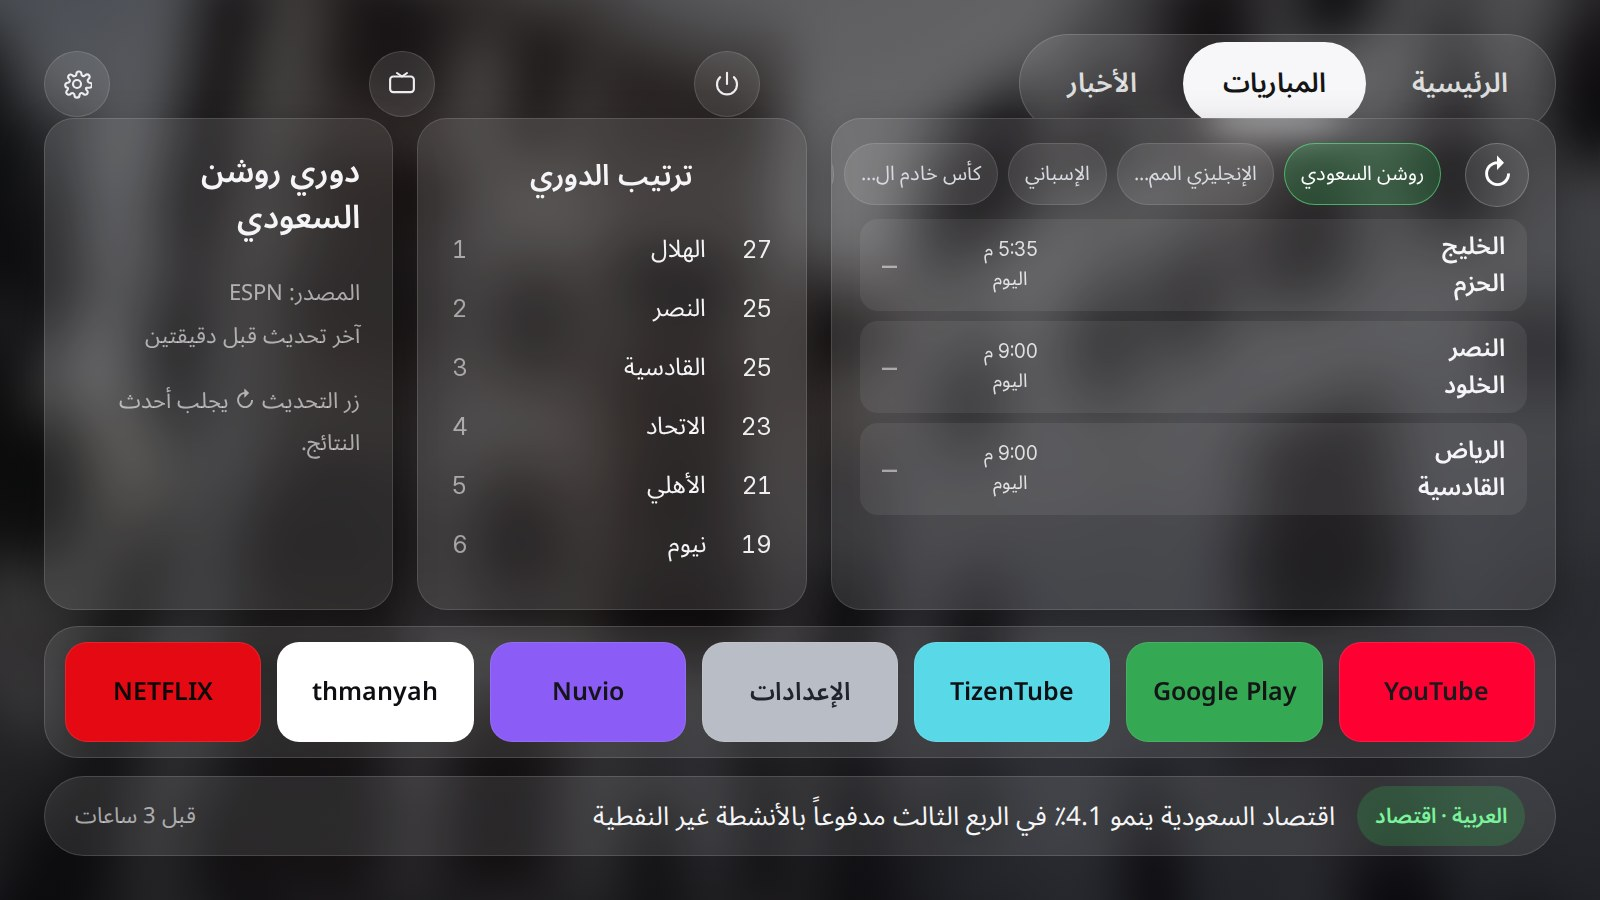
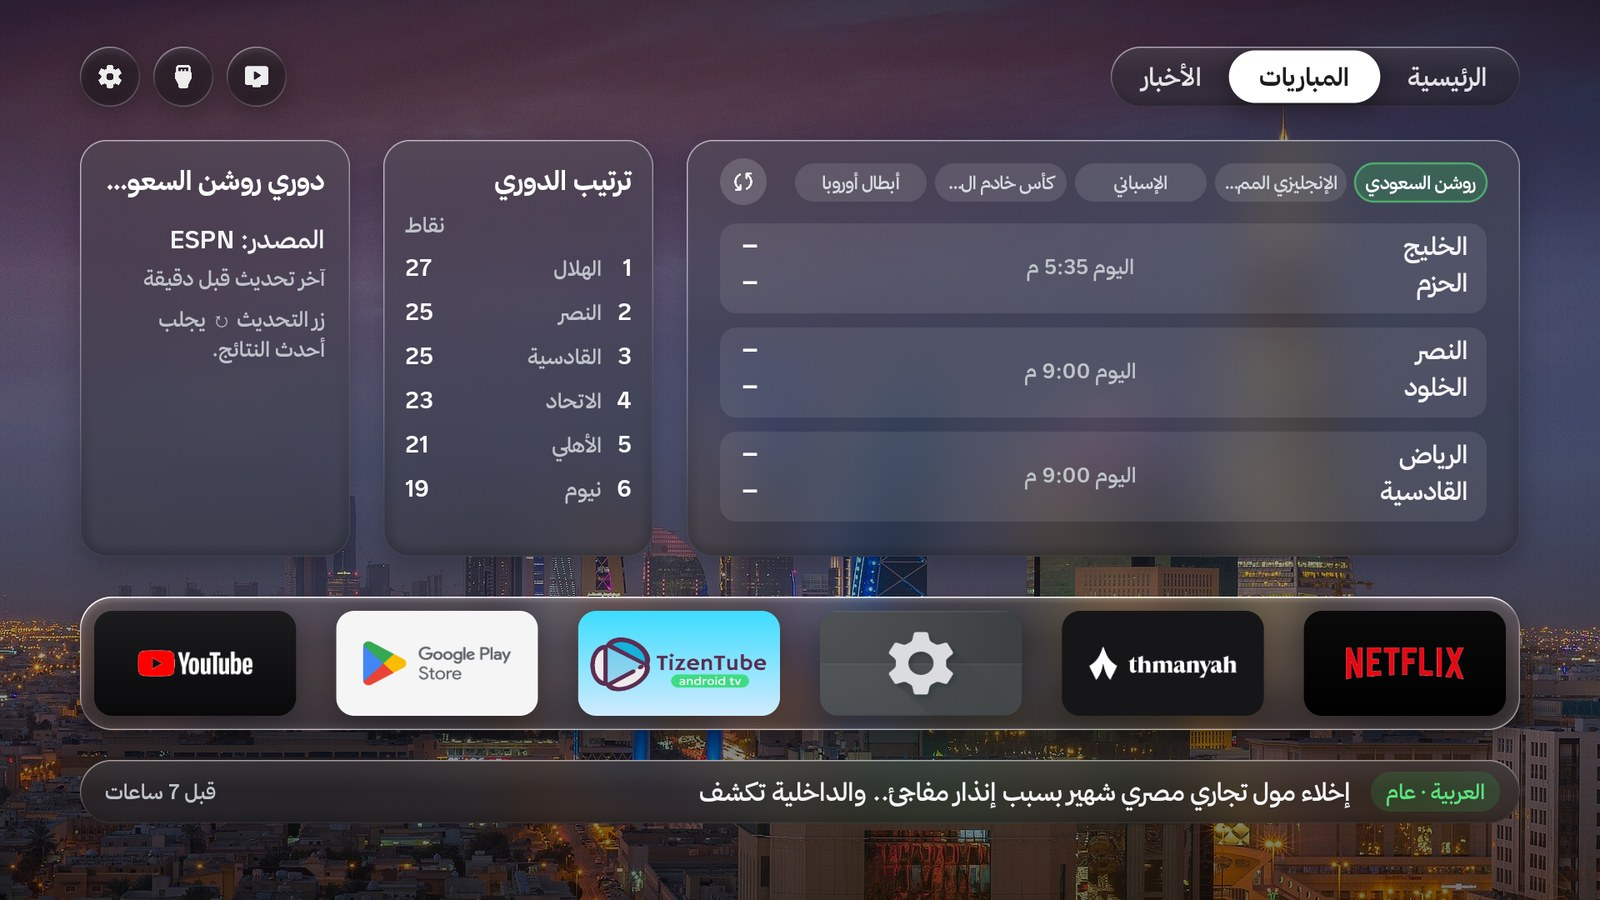
docs: real TCL captures for the 1.2.0 gallery
Six 1600x900 captures from the TCL Smart TV Pro (Android 14) running Majlis
1.2.0: home, matches with the competition chips, news, drawer, screensaver with
the prayer row, and the dark settings screen. The shelf in them shows no
Stremio or Nuvio.

diff --git a/README.ar.md b/README.ar.md
@@ -24,8 +24,7 @@
 | **شاشة التوقف** | **الإعدادات** |
 | ![شاشة التوقف](docs/screenshots/screensaver.jpg) | ![الإعدادات](docs/screenshots/settings.jpg) |
 
-الصور الست نماذج تصميم لمجلس 1.2.0، مرسومة من ألوان التطبيق وخطوطه وخلفياته السعودية،
-والواجهة الفعلية تتبعها.
+الصور الست لقطات من تلفاز TCL Smart TV Pro يعمل بأندرويد 14، وعليه مجلس 1.2.0.
 
 ## أعطِ وكيلك هذه الجملة
 

diff --git a/README.md b/README.md
@@ -62,8 +62,7 @@ made by the `./tv` tool, so the result is the same in every model.
 | **Screensaver** | **Settings** |
 | ![Screensaver](docs/screenshots/screensaver.jpg) | ![Settings](docs/screenshots/settings.jpg) |
 
-All six are design mockups of Majlis 1.2.0, drawn from the app's own palette, fonts and Saudi
-wallpapers; the shipping UI follows them.
+All six are captures from a TCL Smart TV Pro on Android 14 running Majlis 1.2.0.
 
 ## Supported TVs
 
